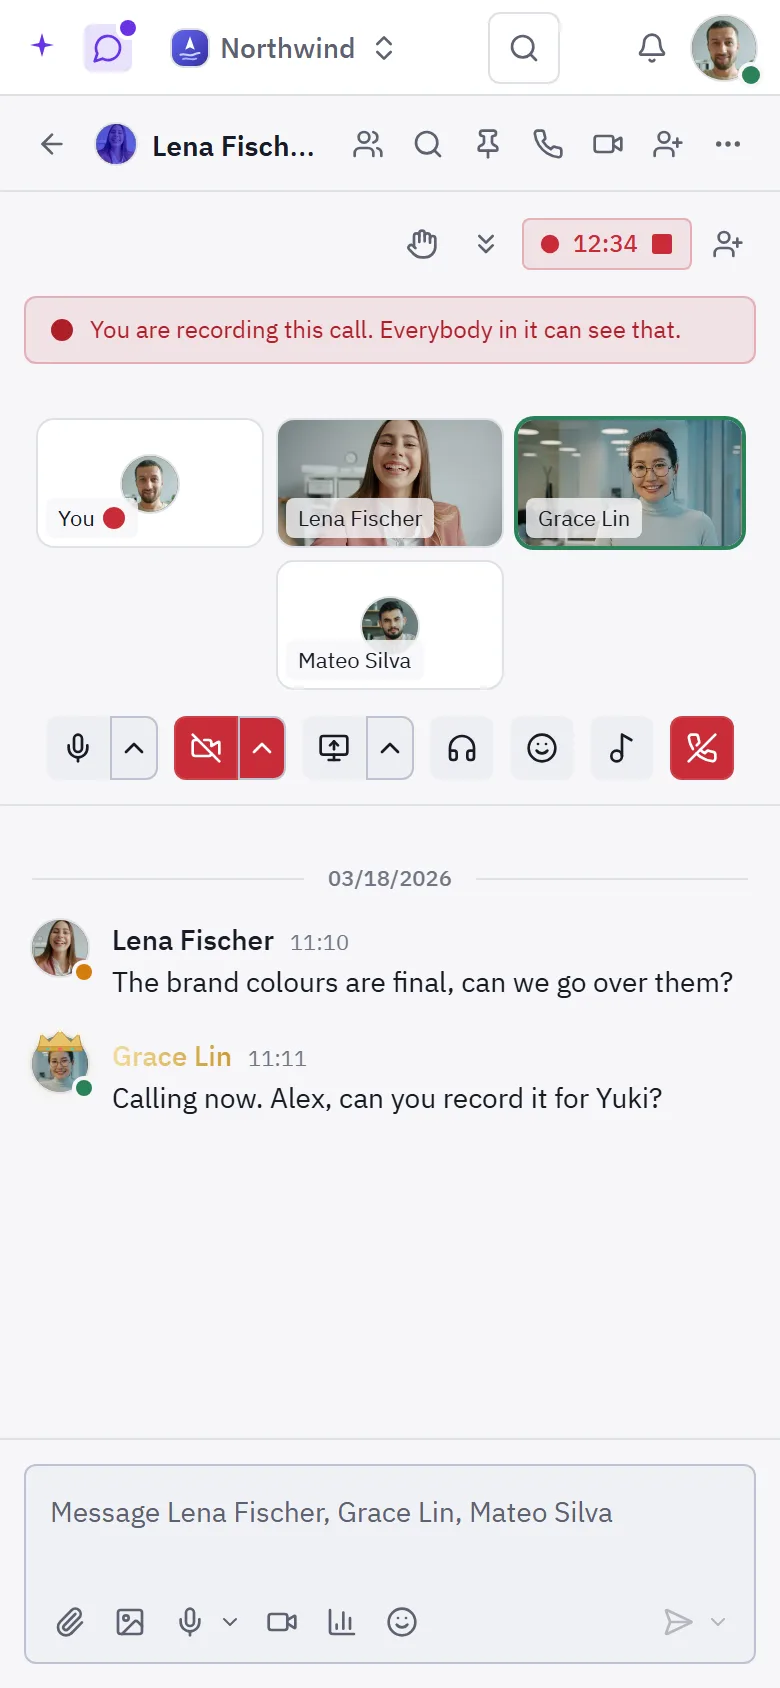
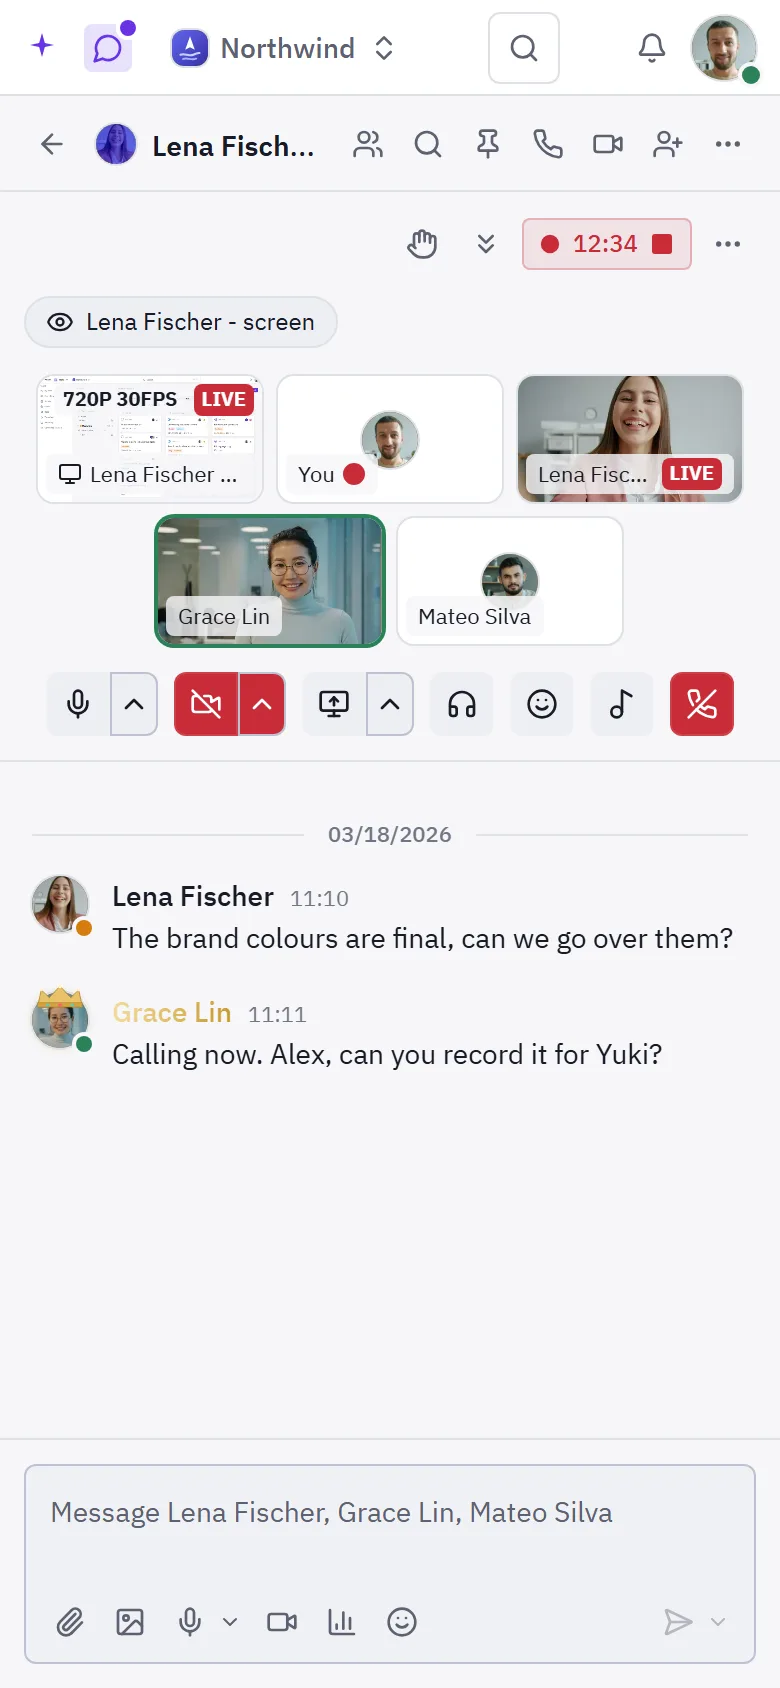
📝 docs(readme): the group call shows a watched screen among the people

diff --git a/dashboard/scripts/readme-media/fixtures/call.ts b/dashboard/scripts/readme-media/fixtures/call.ts
@@ -76,6 +76,66 @@ function camera(person: Person, index: number): MediaStream | null {
     return stream;
 }
 
+const screens = new Map<string, MediaStream | null>();
+
+/** A fixture shared screen: the task board (chat attachment 2, cut from the
+ *  tasks picture) on a 1280x720 canvas, sent at 30 frames a second - what a
+ *  720p share arrives at, which the tile reads off the painted frames. */
+function screenShare(person: Person): MediaStream | null {
+    const known = screens.get(person.id);
+    if (known !== undefined) return known;
+    if (typeof document === "undefined" || !("captureStream" in HTMLCanvasElement.prototype)) {
+        return null;
+    }
+    const canvas = document.createElement("canvas");
+    canvas.width = 1280;
+    canvas.height = 720;
+    const pen = canvas.getContext("2d")!;
+    const picture = new Image();
+    picture.src = `/api/chat/attachments/${id("attachment", 2)}`;
+    const draw = () => {
+        pen.fillStyle = "#f4f4f5";
+        pen.fillRect(0, 0, 1280, 720);
+        if (!picture.complete || picture.naturalWidth === 0) return;
+        const scale = 1280 / picture.naturalWidth;
+        pen.drawImage(picture, 0, 0, 1280, picture.naturalHeight * scale);
+    };
+    draw();
+    picture.onload = draw;
+    setInterval(draw, 1000 / 30);
+    const stream = canvas.captureStream(30);
+    screens.set(person.id, stream);
+    countFramesOnTheSceneClock();
+    return stream;
+}
+
+/**
+ * The tile reads a share's frame rate as frames painted per second of
+ * `performance.now()`. Under the capture's frozen clock a second is stepped
+ * through in a moment, so the real count comes out a fraction of what is sent.
+ * A video playing one of these screens counts its frames on the scene's clock
+ * instead, at the 30 a second the canvas is captured at.
+ */
+function countFramesOnTheSceneClock(): void {
+    const proto = HTMLVideoElement.prototype;
+    const real = proto.getVideoPlaybackQuality;
+    if (typeof real !== "function" || "__sceneClock" in proto) return;
+    Object.defineProperty(proto, "__sceneClock", { value: true });
+    proto.getVideoPlaybackQuality = function (this: HTMLVideoElement) {
+        const measured = real.call(this);
+        const source = this.srcObject;
+        if (!(source instanceof MediaStream) || ![...screens.values()].includes(source)) {
+            return measured;
+        }
+        return {
+            corruptedVideoFrames: measured.corruptedVideoFrames,
+            creationTime: measured.creationTime,
+            droppedVideoFrames: 0,
+            totalVideoFrames: Math.floor((performance.now() / 1000) * 30)
+        };
+    };
+}
+
 /** One kind of call: who is in it, where, and what they have on. */
 export interface CallShape {
     readonly meetingId: string;
@@ -90,6 +150,8 @@ export interface CallShape {
     readonly speaking?: readonly string[];
     /** Hands up. */
     readonly hands?: readonly string[];
+    /** Who is sharing a screen. */
+    readonly screens?: readonly string[];
     readonly standalone?: boolean;
     readonly recording?: boolean;
 }
@@ -128,6 +190,7 @@ export function groupShape(ctx: SceneContext): CallShape {
         people: [VIEWER, TEAM.lena, CREW.grace, CREW.mateo],
         cameras: [TEAM.lena.id, CREW.grace.id],
         speaking: [CREW.grace.id],
+        screens: [TEAM.lena.id],
         recording: true
     };
 }
@@ -194,7 +257,13 @@ export function callState(ctx: SceneContext, shape: CallShape = standupShape(ctx
         localStream: viewerCamera,
         localScreen: null,
         remote,
-        screens: new Map(),
+        screens: new Map(
+            others.flatMap((person) => {
+                if (!has(shape.screens, person.userId)) return [];
+                const stream = screenShare({ id: person.userId, name: person.name });
+                return stream ? [[person.id, stream] as const] : [];
+            })
+        ),
         speaking: new Set(
             participants.filter((one) => has(shape.speaking, one.userId)).map((one) => one.id)
         ),

diff --git a/dashboard/scripts/readme-media/scenes/in-call.tsx b/dashboard/scripts/readme-media/scenes/in-call.tsx
@@ -3,7 +3,8 @@
  * of its own with cameras on, and a call in a group chat being recorded.
  */
 
-import { VIEWER } from "../fixtures/people";
+import { TEAM, VIEWER } from "../fixtures/people";
+import { label } from "../runtime/interact";
 import { defineScene } from "../runtime/scene";
 import { ChatScreen, chatActions } from "./chat";
 import { MeetingRoom } from "@/app/(app)/chat/meetings/[meetingId]/meeting-room";
@@ -50,5 +51,17 @@ export const callGroup = defineScene({
     path: `/chat/c/${GROUP_ID}`,
     params: { channelId: GROUP_ID },
     actions: (ctx) => chatActions(ctx, GROUP_ID),
-    render: (ctx) => <ChatScreen channelId={GROUP_ID} hold={callHold(ctx, groupShape(ctx))} />
+    render: (ctx) => <ChatScreen channelId={GROUP_ID} hold={callHold(ctx, groupShape(ctx))} />,
+    // A screen arriving in a group call is offered rather than taken; the
+    // picture is of one being watched, among the people.
+    prepare: (ctx) => {
+        const screen = label(ctx.locale, "chat.callRoom.theirScreen").replace(
+            "{name}",
+            TEAM.lena.name
+        );
+        const title = label(ctx.locale, "chat.callRoom.watchNamed").replace("{name}", screen);
+        const card = document.querySelector<HTMLElement>(`button[title="${title}"]`);
+        if (!card) throw new Error(`no card titled "${title}"`);
+        card.click();
+    }
 });
